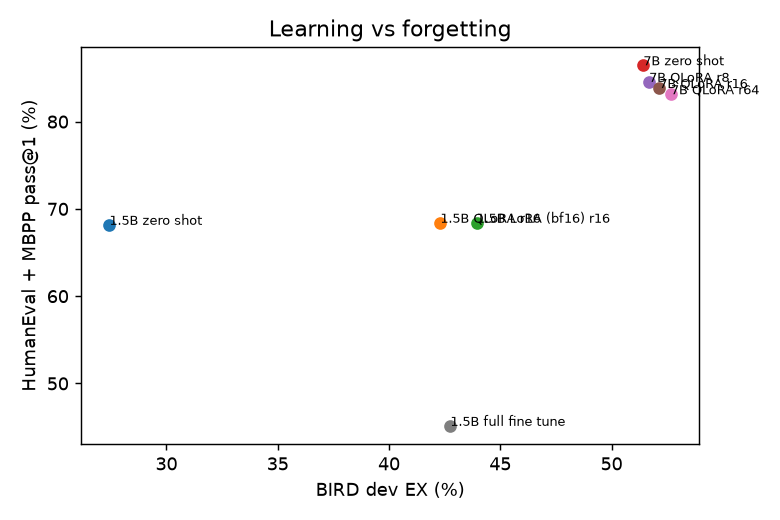
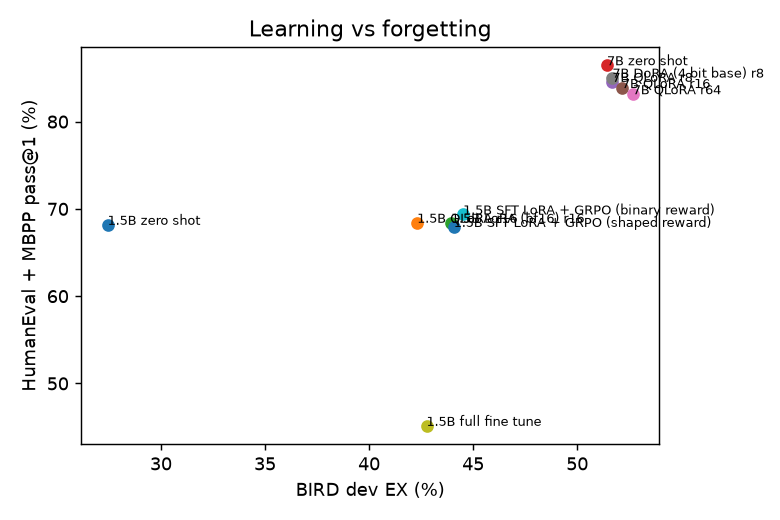
Final results: 7B DoRA and both GRPO arms; GRPO paired test against its SFT parent and reward hacking plot

diff --git a/querycraft/report.py b/querycraft/report.py
@@ -1,6 +1,7 @@
 """Build README result tables + plots strictly from logged runs (runs/*/results.json and *_meta.json).
 Planned runs without results are listed under "Targets (not yet measured)"; nothing is ever filled in by hand."""
 import json
+import math
 import re
 from pathlib import Path
 
@@ -64,6 +65,23 @@ def _dev_on_held_dbs(r):
     return round(100 * sum(xs) / len(xs), 2) if xs else None
 
 
+def _ex_by_id(r):
+    p = r["dir"] / "eval" / f"dev_{r['res'].get('selected_checkpoint', 'base')}.scored.jsonl"
+    return {(d := json.loads(l))["id"]: d["ex"] for l in p.read_text().splitlines()}
+
+
+def _paired(a, b):
+    """(only a right, only b right) over the dev questions both runs scored."""
+    xa, xb = _ex_by_id(a), _ex_by_id(b)
+    ids = xa.keys() & xb.keys()
+    return sum(xa[i] and not xb[i] for i in ids), sum(xb[i] and not xa[i] for i in ids)
+
+
+def _sign_p(a, b):
+    n, k = a + b, min(a, b)
+    return round(min(1.0, 2 * sum(math.comb(n, i) for i in range(k + 1)) / 2 ** n), 3) if n else 1.0
+
+
 def tables(rows):
     done = [r for r in rows if r["res"] and r["eval"] and r["eval"].get("status") == "ok"]
     todo = [r for r in rows if r not in done]
@@ -95,15 +113,29 @@ def tables(rows):
         sel = [r for r in done if "val_ex_by_checkpoint" in r["res"]]
         if sel:
             out.append("### Checkpoint selection on validation (EX %, chosen in bold)\n")
-            out.append("| Model | " + " | ".join(sel[0]["res"]["val_ex_by_checkpoint"]) + " | Trainable params | Peak VRAM (GB) |")
-            out.append("|---|" + "---|" * (len(sel[0]["res"]["val_ex_by_checkpoint"]) + 2))
-            for r in sel:
-                v = r["res"]["val_ex_by_checkpoint"]
-                cells = [f"**{x}**" if k == r["res"]["selected_checkpoint"] else str(x) for k, x in v.items()]
-                tp = r["train"].get("trainable_params") if r["train"] else None
-                out.append(f"| {_label(r)} | " + " | ".join(cells) + f" | {tp or 'all'} | {r['train'].get('peak_vram_gb', '') if r['train'] else ''} |")
+            for keys in dict.fromkeys(tuple(r["res"]["val_ex_by_checkpoint"]) for r in sel):  # SFT and GRPO save at different steps
+                out.append("| Model | " + " | ".join(keys) + " | Trainable params | Peak VRAM (GB) |")
+                out.append("|---|" + "---|" * (len(keys) + 2))
+                for r in (r for r in sel if tuple(r["res"]["val_ex_by_checkpoint"]) == keys):
+                    v = r["res"]["val_ex_by_checkpoint"]
+                    cells = [f"**{x}**" if k == r["res"]["selected_checkpoint"] else str(x) for k, x in v.items()]
+                    tp = r["train"].get("trainable_params") if r["train"] else None
+                    out.append(f"| {_label(r)} | " + " | ".join(cells) + f" | {tp or 'all'} | {r['train'].get('peak_vram_gb', '') if r['train'] else ''} |")
+                out.append("")
+        grpo = [r for r in done if (r["cfg"].get("train") or {}).get("method") == "grpo"]
+        if grpo:
+            out.append("### GRPO on top of SFT, paired against its SFT parent (BIRD dev)\n")
+            out.append("Both arms start from the 1.5B LoRA r16 SFT checkpoint and train 125 steps on 1,000 prompts the "
+                       "SFT model solves 1 to 7 times out of 8. p is an exact two sided sign test on the questions "
+                       "where exactly one of the two models is right.\n")
+            out.append("| Model | SFT parent EX | GRPO EX | Only GRPO right | Only SFT right | p |")
+            out.append("|---|---|---|---|---|---|")
+            for r in grpo:
+                parent = next(x for x in done if x["cfg"]["name"] == Path(r["cfg"]["model"]).parent.parent.name)
+                a, b = _paired(parent, r)
+                out.append(f"| {_label(r)} | {parent['res']['dev']['ex']} | {r['res']['dev']['ex']} | {b} | {a} | {_sign_p(a, b)} |")
             out.append("")
-        conf = [(r, json.loads(f.read_text())) for r in done if (f := r["dir"] / "confidence" / "confidence.json").exists()]
+        conf =[(r, json.loads(f.read_text())) for r in done if (f := r["dir"] / "confidence" / "confidence.json").exists()]
         if conf:
             out.append("### Knowing when it is wrong: voting and abstention (BIRD dev)\n")
             out.append("8 sampled queries per question are executed and grouped by result; the largest group is the "
@@ -169,6 +201,25 @@ def plots(done):
         fig.tight_layout()
         fig.savefig(FIG / "accuracy_vs_coverage.png", dpi=130)
         made.append("accuracy_vs_coverage.png")
+    grpo = [r for r in done if (r["cfg"].get("train") or {}).get("method") == "grpo" and (r["dir"] / "train_log.json").exists()]
+    if grpo:  # reward hacking check: does the trained reward rise without execution correctness rising with it?
+        fig, ax = plt.subplots(figsize=(6, 4))
+        for r in grpo:
+            arm = r["cfg"]["train"]["reward"]
+            log = [x for x in json.loads((r["dir"] / "train_log.json").read_text()) if "reward" in x]
+            for key, style in ((f"rewards/{arm}_reward/mean", "-"), ("rewards/binary_reward/mean", ":")):
+                ys = [x[key] for x in log if key in x]
+                if arm == "binary" and style == ":":
+                    continue  # same series as the trained reward
+                ys = [sum(ys[max(0, i - 9):i + 1]) / len(ys[max(0, i - 9):i + 1]) for i in range(len(ys))]
+                ax.plot(range(1, len(ys) + 1), ys, style, label=f"{arm} arm: {key.split('/')[1].replace('_', ' ')}")
+        ax.set_xlabel("GRPO step")
+        ax.set_ylabel("Mean train reward (10 step moving average)")
+        ax.set_title("Trained reward vs execution correctness")
+        ax.legend(fontsize=7)
+        fig.tight_layout()
+        fig.savefig(FIG / "grpo_rewards.png", dpi=130)
+        made.append("grpo_rewards.png")
     return made
 
 

diff --git a/querycraft/grpo_train.py b/querycraft/grpo_train.py
@@ -75,7 +75,8 @@ def main(cfg_path, arm, max_steps=STEPS):
         (run_dir(cfg) / "train_log.json").write_text(json.dumps(hist, indent=1))
         steps = [h for h in hist if "step_time" in h or "reward" in h]
         meta |= {"n_prompts": len(ds), "resumed": resume, "base": str(src),
-                 "peak_vram_gb": round(torch.cuda.max_memory_allocated() / 2**30, 2), "n_logged_steps": len(steps)}
+                 "peak_vram_gb": round(torch.cuda.max_memory_allocated() / 2**30, 2), "n_logged_steps": len(steps),
+                 "trainable_params": trainer.model.get_nb_trainable_parameters()[0]}
 
 
 if __name__ == "__main__":

diff --git a/README.md b/README.md
@@ -80,7 +80,10 @@ columns per database), so the task tests schema understanding as much as SQL syn
 | 7B QLoRA r8 | 56.4 | 51.69 [49.19, 54.19] | 57.63 | 59.03 | 43.75 | 30.34 | 82.0 | 62.47 | 84.76 | 84.44 | NVIDIA A100-SXM4-80GB x1 | 1.45 h |
 | 7B QLoRA r16 | 56.0 | 52.15 [49.65, 54.64] | 57.95 | 59.35 | 44.83 | 29.66 | 84.0 | 63.77 | 84.15 | 83.66 | NVIDIA A100-SXM4-80GB x1 | 1.46 h |
 | 7B QLoRA r64 | 56.0 | 52.67 [50.17, 55.16] | 58.15 | 59.14 | 45.91 | 33.1 | 83.0 | 62.47 | 83.54 | 82.88 | NVIDIA A100-SXM4-80GB x1 | 1.47 h |
+| 7B DoRA (4 bit base) r8 | 56.4 | 51.69 [49.19, 54.19] | 57.76 | 59.14 | 43.32 | 31.03 | 83.0 | 62.69 | 85.98 | 84.44 | NVIDIA A100-SXM4-80GB x1 | 1.09 h |
 | 1.5B full fine tune | 36.2 | 42.76 [40.31, 45.25] | 47.52 | 49.95 | 34.27 | 24.14 | 65.0 | 54.01 | 34.15 | 52.14 | NVIDIA A100-SXM4-80GB x1 | 0.48 h |
+| 1.5B SFT LoRA + GRPO (binary reward) | 35.2 | 44.52 [42.05, 47.02] | 48.83 | 52.11 | 34.27 | 28.97 | 73.0 | 55.75 | 71.34 | 68.09 | NVIDIA GeForce RTX 4070 Laptop GPU x1 | 4.07 h |
+| 1.5B SFT LoRA + GRPO (shaped reward) | 35.8 | 44.07 [41.6, 46.56] | 48.04 | 51.78 | 33.41 | 28.97 | 73.0 | 54.66 | 68.29 | 67.7 | NVIDIA GeForce RTX 4070 Laptop GPU x1 | 14.62 h |
 
 Held back EX vs dev EX on the same three databases is the contamination check: a model that memorised BIRD dev would score clearly higher on dev questions than on new questions over the same schemas.
 
@@ -97,7 +100,10 @@ Held back EX vs dev EX on the same three databases is the contamination check: a
 | 7B QLoRA r8 | 1 | 192 | 162 | 170 | 74 | 0 | 142 |
 | 7B QLoRA r16 | 1 | 203 | 161 | 155 | 74 | 0 | 140 |
 | 7B QLoRA r64 | 2 | 197 | 157 | 153 | 76 | 0 | 141 |
+| 7B DoRA (4 bit base) r8 | 1 | 201 | 155 | 164 | 77 | 0 | 143 |
 | 1.5B full fine tune | 8 | 244 | 247 | 167 | 83 | 1 | 128 |
+| 1.5B SFT LoRA + GRPO (binary reward) | 3 | 263 | 239 | 166 | 71 | 0 | 109 |
+| 1.5B SFT LoRA + GRPO (shaped reward) | 2 | 235 | 276 | 165 | 68 | 0 | 112 |
 
 ### Checkpoint selection on validation (EX %, chosen in bold)
 
@@ -108,7 +114,22 @@ Held back EX vs dev EX on the same three databases is the contamination check: a
 | 7B QLoRA r8 | 54.6 | 56.0 | **56.4** | 20185088 | 13.72 |
 | 7B QLoRA r16 | 54.0 | 55.4 | **56.0** | 40370176 | 13.83 |
 | 7B QLoRA r64 | 52.0 | 54.6 | **56.0** | 161480704 | 14.74 |
+| 7B DoRA (4 bit base) r8 | 54.4 | 54.6 | **56.4** | 21575680 | 16.93 |
 | 1.5B full fine tune | 33.4 | 34.0 | **36.2** | all | 26.95 |
+
+| Model | checkpoint-25 | checkpoint-50 | checkpoint-75 | checkpoint-100 | checkpoint-125 | Trainable params | Peak VRAM (GB) |
+|---|---|---|---|---|---|---|---|
+| 1.5B SFT LoRA + GRPO (binary reward) | 32.8 | 33.4 | 34.0 | 34.0 | **35.2** | 18464768 | 6.62 |
+| 1.5B SFT LoRA + GRPO (shaped reward) | 32.8 | 34.0 | 34.0 | 34.6 | **35.8** | 18464768 | 6.48 |
+
+### GRPO on top of SFT, paired against its SFT parent (BIRD dev)
+
+Both arms start from the 1.5B LoRA r16 SFT checkpoint and train 125 steps on 1,000 prompts the SFT model solves 1 to 7 times out of 8. p is an exact two sided sign test on the questions where exactly one of the two models is right.
+
+| Model | SFT parent EX | GRPO EX | Only GRPO right | Only SFT right | p |
+|---|---|---|---|---|---|
+| 1.5B SFT LoRA + GRPO (binary reward) | 43.94 | 44.52 | 73 | 64 | 0.494 |
+| 1.5B SFT LoRA + GRPO (shaped reward) | 43.94 | 44.07 | 81 | 79 | 0.937 |
 
 ### Knowing when it is wrong: voting and abstention (BIRD dev)
 
@@ -120,28 +141,39 @@ Held back EX vs dev EX on the same three databases is the contamination check: a
 | 1.5B QLoRA r16 | 42.31 | 45.6 | 0.7494 | 56.03% | 61.23 | 85.91% | 51.03 | 87.14 (70.0% answered) |
 | 1.5B LoRA (bf16) r16 | 43.94 | 48.53 | 0.7411 | 56.49% | 64.09 | 81.41% | 55.29 | 90.77 (65.0% answered) |
 
-### Targets (not yet measured)
-
-These runs are configured but have no logged results yet. No numbers are reported for them.
-
-* 7B DoRA (4 bit base) at best sweep rank (`configs/rented/20_qwen7b_dora_best.yaml`, A100 80GB)
-
 ![dev_ex_by_difficulty.png](docs/figures/dev_ex_by_difficulty.png)
 ![learn_vs_forget.png](docs/figures/learn_vs_forget.png)
 ![accuracy_vs_coverage.png](docs/figures/accuracy_vs_coverage.png)
+![grpo_rewards.png](docs/figures/grpo_rewards.png)
 <!-- RESULTS:END -->
+
+### What GRPO showed
+
+* Train reward climbed steadily (binary arm: mean 0.46 over the first 25 steps, 0.69 over the last 25), yet BIRD dev barely moved:
+  +0.58 points for the binary reward and +0.13 for the shaped reward, neither distinguishable from noise in the
+  paired test above (p = 0.49 and 0.94). Held back EX went from 68 to 73 for both arms, on only 100 questions.
+* The shaped reward was not hacked: in the plot, the shaped arm's true correctness (dotted) tracks the binary arm
+  step for step, so partial credit for the right tables and joins did not pull the model away from correct answers.
+  It also did not help.
+* In the binary arm, from the first 25 steps to the last 25, the share of prompts where all 8 samples got the same reward rose from 0.17 to 0.43 and entropy
+  fell from 0.16 to 0.06. That is consistent with the model sharpening on answers it could already sometimes reach,
+  rather than learning new skills, which matches the small dev change.
+* No meaningful forgetting: HumanEval and MBPP stayed within a point of the SFT model or above it.
+* The shaped arm's 14.6 h train time includes the hours the laptop was asleep overnight; it is not a compute
+  comparison with the binary arm.
 
 ## Hardware
 
 | Runs | Hardware |
 |---|---|
-| data, tests, 1.5B baselines, 1.5B QLoRA and LoRA, smoke test | Lenovo Legion Pro 5, RTX 4070 Laptop 8 GB, WSL2 Ubuntu 24.04, driver 560.94 |
+| data, tests, 1.5B baselines, 1.5B QLoRA and LoRA, GRPO, smoke test | Lenovo Legion Pro 5, RTX 4070 Laptop 8 GB, WSL2 Ubuntu 24.04, driver 560.94 |
 | 7B baselines, 7B rank sweep, 7B DoRA, 1.5B full fine tune | 1x A100 SXM4 80GB on Modal, free monthly credit |
 
 The exact GPU, package versions, git commit, seed, config and wall clock of every stage are written to
-`runs/<name>/<stage>_meta.json`. Every A100 job's measured hours and cost are in `docs/modal_ledger.json`: the
-sweep, both 7B baselines and the 1.5B full fine tune used 7.8 A100 hours and $18.43 of the $30 monthly credit
-(including the smoke test). DoRA needs up to $15 more, so the spend cap deferred it to the next credit cycle.
+`runs/<name>/<stage>_meta.json`. Every A100 job's measured hours and cost are in `docs/modal_ledger.json`:
+9.8 A100 hours and $29.41 at the ledger's conservative $3 per hour, inside the $30 monthly free credit (including
+the smoke test). DoRA appears three times because two attempts were cut off by the launcher, not the job, and each
+retry resumed from the last saved checkpoint.
 
 ## Reproduce
 

diff --git a/docs/results.md b/docs/results.md
@@ -11,7 +11,10 @@
 | 7B QLoRA r8 | 56.4 | 51.69 [49.19, 54.19] | 57.63 | 59.03 | 43.75 | 30.34 | 82.0 | 62.47 | 84.76 | 84.44 | NVIDIA A100-SXM4-80GB x1 | 1.45 h |
 | 7B QLoRA r16 | 56.0 | 52.15 [49.65, 54.64] | 57.95 | 59.35 | 44.83 | 29.66 | 84.0 | 63.77 | 84.15 | 83.66 | NVIDIA A100-SXM4-80GB x1 | 1.46 h |
 | 7B QLoRA r64 | 56.0 | 52.67 [50.17, 55.16] | 58.15 | 59.14 | 45.91 | 33.1 | 83.0 | 62.47 | 83.54 | 82.88 | NVIDIA A100-SXM4-80GB x1 | 1.47 h |
+| 7B DoRA (4 bit base) r8 | 56.4 | 51.69 [49.19, 54.19] | 57.76 | 59.14 | 43.32 | 31.03 | 83.0 | 62.69 | 85.98 | 84.44 | NVIDIA A100-SXM4-80GB x1 | 1.09 h |
 | 1.5B full fine tune | 36.2 | 42.76 [40.31, 45.25] | 47.52 | 49.95 | 34.27 | 24.14 | 65.0 | 54.01 | 34.15 | 52.14 | NVIDIA A100-SXM4-80GB x1 | 0.48 h |
+| 1.5B SFT LoRA + GRPO (binary reward) | 35.2 | 44.52 [42.05, 47.02] | 48.83 | 52.11 | 34.27 | 28.97 | 73.0 | 55.75 | 71.34 | 68.09 | NVIDIA GeForce RTX 4070 Laptop GPU x1 | 4.07 h |
+| 1.5B SFT LoRA + GRPO (shaped reward) | 35.8 | 44.07 [41.6, 46.56] | 48.04 | 51.78 | 33.41 | 28.97 | 73.0 | 54.66 | 68.29 | 67.7 | NVIDIA GeForce RTX 4070 Laptop GPU x1 | 14.62 h |
 
 Held back EX vs dev EX on the same three databases is the contamination check: a model that memorised BIRD dev would score clearly higher on dev questions than on new questions over the same schemas.
 
@@ -28,7 +31,10 @@ Held back EX vs dev EX on the same three databases is the contamination check: a
 | 7B QLoRA r8 | 1 | 192 | 162 | 170 | 74 | 0 | 142 |
 | 7B QLoRA r16 | 1 | 203 | 161 | 155 | 74 | 0 | 140 |
 | 7B QLoRA r64 | 2 | 197 | 157 | 153 | 76 | 0 | 141 |
+| 7B DoRA (4 bit base) r8 | 1 | 201 | 155 | 164 | 77 | 0 | 143 |
 | 1.5B full fine tune | 8 | 244 | 247 | 167 | 83 | 1 | 128 |
+| 1.5B SFT LoRA + GRPO (binary reward) | 3 | 263 | 239 | 166 | 71 | 0 | 109 |
+| 1.5B SFT LoRA + GRPO (shaped reward) | 2 | 235 | 276 | 165 | 68 | 0 | 112 |
 
 ### Checkpoint selection on validation (EX %, chosen in bold)
 
@@ -39,7 +45,22 @@ Held back EX vs dev EX on the same three databases is the contamination check: a
 | 7B QLoRA r8 | 54.6 | 56.0 | **56.4** | 20185088 | 13.72 |
 | 7B QLoRA r16 | 54.0 | 55.4 | **56.0** | 40370176 | 13.83 |
 | 7B QLoRA r64 | 52.0 | 54.6 | **56.0** | 161480704 | 14.74 |
+| 7B DoRA (4 bit base) r8 | 54.4 | 54.6 | **56.4** | 21575680 | 16.93 |
 | 1.5B full fine tune | 33.4 | 34.0 | **36.2** | all | 26.95 |
+
+| Model | checkpoint-25 | checkpoint-50 | checkpoint-75 | checkpoint-100 | checkpoint-125 | Trainable params | Peak VRAM (GB) |
+|---|---|---|---|---|---|---|---|
+| 1.5B SFT LoRA + GRPO (binary reward) | 32.8 | 33.4 | 34.0 | 34.0 | **35.2** | 18464768 | 6.62 |
+| 1.5B SFT LoRA + GRPO (shaped reward) | 32.8 | 34.0 | 34.0 | 34.6 | **35.8** | 18464768 | 6.48 |
+
+### GRPO on top of SFT, paired against its SFT parent (BIRD dev)
+
+Both arms start from the 1.5B LoRA r16 SFT checkpoint and train 125 steps on 1,000 prompts the SFT model solves 1 to 7 times out of 8. p is an exact two sided sign test on the questions where exactly one of the two models is right.
+
+| Model | SFT parent EX | GRPO EX | Only GRPO right | Only SFT right | p |
+|---|---|---|---|---|---|
+| 1.5B SFT LoRA + GRPO (binary reward) | 43.94 | 44.52 | 73 | 64 | 0.494 |
+| 1.5B SFT LoRA + GRPO (shaped reward) | 43.94 | 44.07 | 81 | 79 | 0.937 |
 
 ### Knowing when it is wrong: voting and abstention (BIRD dev)
 
@@ -51,12 +72,7 @@ Held back EX vs dev EX on the same three databases is the contamination check: a
 | 1.5B QLoRA r16 | 42.31 | 45.6 | 0.7494 | 56.03% | 61.23 | 85.91% | 51.03 | 87.14 (70.0% answered) |
 | 1.5B LoRA (bf16) r16 | 43.94 | 48.53 | 0.7411 | 56.49% | 64.09 | 81.41% | 55.29 | 90.77 (65.0% answered) |
 
-### Targets (not yet measured)
-
-These runs are configured but have no logged results yet. No numbers are reported for them.
-
-* 7B DoRA (4 bit base) at best sweep rank (`configs/rented/20_qwen7b_dora_best.yaml`, A100 80GB)
-
 ![dev_ex_by_difficulty.png](docs/figures/dev_ex_by_difficulty.png)
 ![learn_vs_forget.png](docs/figures/learn_vs_forget.png)
 ![accuracy_vs_coverage.png](docs/figures/accuracy_vs_coverage.png)
+![grpo_rewards.png](docs/figures/grpo_rewards.png)

diff --git a/docs/plans/grpo.md b/docs/plans/grpo.md
@@ -1,8 +1,8 @@
 # Plan: reinforcement learning with an execution reward (GRPO)
 
-Status: in progress on the laptop. Step 1 done (`querycraft/reward.py`, `tests/test_reward.py`); step 2 running
-(`querycraft/grpo_data.py`); step 3 written (`querycraft/grpo_train.py`). Nothing here runs on Modal until the
-1.5B result justifies it.
+Status: done on the laptop (2026-11-14). Both arms trained 125 steps and were evaluated; neither beat the SFT
+model on BIRD dev by more than noise (paired sign test p = 0.49 binary, 0.94 shaped). Results and the reward hacking
+plot are in the README. Per step 6, the 7B arms are not run: the 1.5B result does not justify them.
 
 ## Question
 
